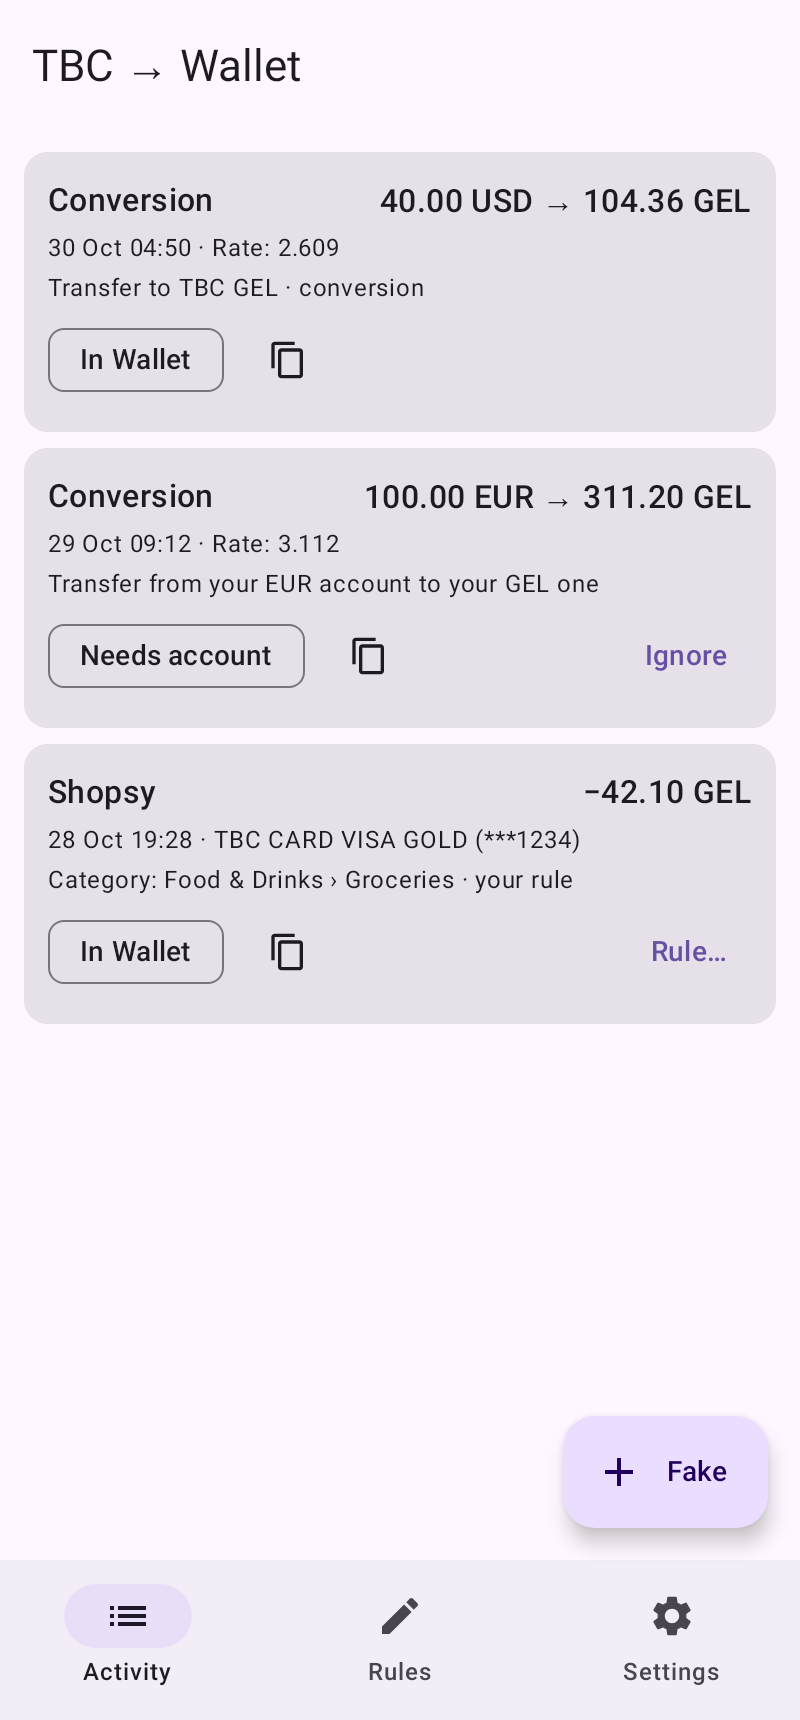
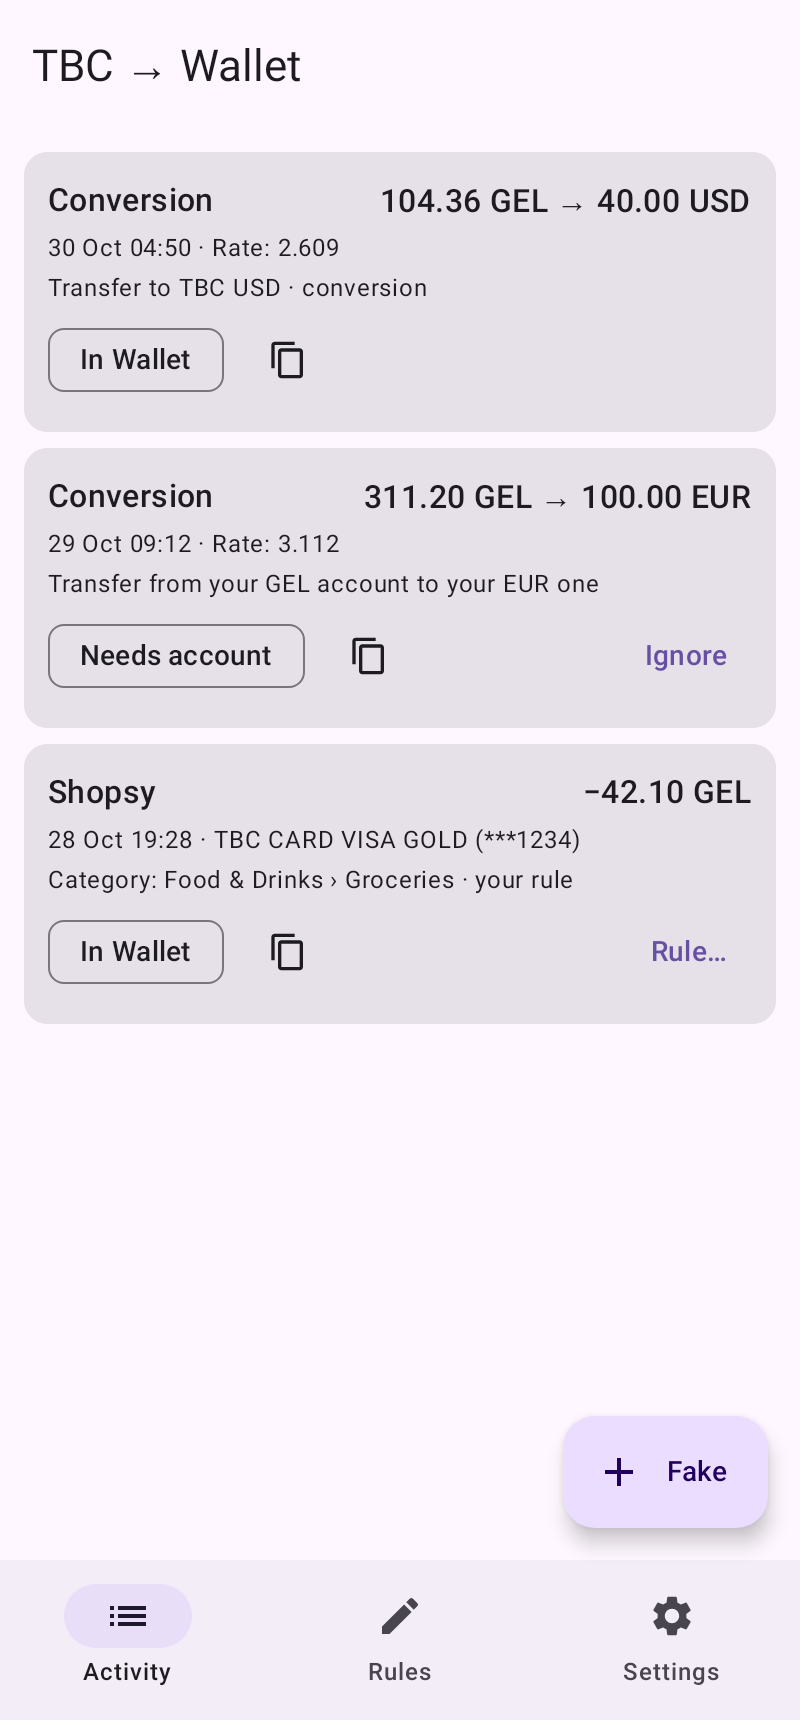
Read a conversion's first amount as what left, the second as what arrived
Confirmed with a real conversion: 104.36 GEL bought 40.00 USD.

Claude-Session: https://claude.ai/code/session_01J211UC7GY6QGmhgzeirtzj

diff --git a/app/src/test/java/su/iho/tbc2wallet/LogicTest.kt b/app/src/test/java/su/iho/tbc2wallet/LogicTest.kt
@@ -112,10 +112,10 @@ class ParserTest {
     @Test fun conversion() {
         val t = TbcNotificationParser.parse("Conversion:\n104.36 GEL\n40.00 USD\nRate: 2.609\n30/10/2026")!!
         assertEquals(TxKind.CONVERSION, t.kind)
-        assertEquals(BigDecimal("40.00"), t.amount)
-        assertEquals("USD", t.currency)
-        assertEquals(BigDecimal("104.36"), t.counterAmount)
-        assertEquals("GEL", t.counterCurrency)
+        assertEquals(BigDecimal("104.36"), t.amount)
+        assertEquals("GEL", t.currency)
+        assertEquals(BigDecimal("40.00"), t.counterAmount)
+        assertEquals("USD", t.counterCurrency)
         assertEquals("Rate: 2.609", t.accountLabel)
         assertNull(t.counterParty)
         assertEquals(LocalDate.of(2026, 10, 30), t.date)
@@ -124,8 +124,8 @@ class ParserTest {
 
     @Test fun conversionWithFirstAmountOnHeader() {
         val t = TbcNotificationParser.parse("Conversion: 1,043.60 GEL\n400.00 USD\nRate: 2.609\n30/10/2026")!!
-        assertEquals(BigDecimal("400.00"), t.amount)
-        assertEquals(BigDecimal("1043.60"), t.counterAmount)
+        assertEquals(BigDecimal("1043.60"), t.amount)
+        assertEquals(BigDecimal("400.00"), t.counterAmount)
     }
 
     @Test fun conversionNeedsTwoCurrencies() {
@@ -373,12 +373,12 @@ class WalletJsonTest {
 
     @Test fun conversionTransferCarriesCounterAmount() {
         val record = WalletApi.NewRecord(
-            accountId = "acc-usd", amount = WalletApi.Amount(-40.0, "USD"), recordDate = "2026-10-30T08:00:00Z",
-            transfer = WalletApi.Transfer("acc-gel", pairingMode = "new", counterAmount = WalletApi.Amount(104.36, "GEL")),
+            accountId = "acc-gel", amount = WalletApi.Amount(-104.36, "GEL"), recordDate = "2026-10-30T08:00:00Z",
+            transfer = WalletApi.Transfer("acc-usd", pairingMode = "new", counterAmount = WalletApi.Amount(40.0, "USD")),
         )
         val json = WalletApi.json.encodeToString(WalletApi.NewRecord.serializer(), record)
         assertTrue(json, json.contains(
-            """"transfer":{"accountId":"acc-gel","pairingMode":"new","counterAmount":{"value":104.36,"currencyCode":"GEL"}}"""))
+            """"transfer":{"accountId":"acc-usd","pairingMode":"new","counterAmount":{"value":40.0,"currencyCode":"USD"}}"""))
     }
 }
 

diff --git a/app/src/test/java/su/iho/tbc2wallet/screenshots/ConversionScreenshots.kt b/app/src/test/java/su/iho/tbc2wallet/screenshots/ConversionScreenshots.kt
@@ -44,17 +44,17 @@ class ConversionScreenshots {
         val dao = db.dao()
         val now = System.currentTimeMillis()
         dao.insertIfNew(TransactionEntity(
-            dedupKey = "c1", kind = "CONVERSION", amount = "40.00", currency = "USD", counterParty = null,
+            dedupKey = "c1", kind = "CONVERSION", amount = "104.36", currency = "GEL", counterParty = null,
             accountLabel = "Rate: 2.609", cardLast4 = null, recordDateUtc = "2026-10-30T04:50:00Z",
             rawText = "Conversion:\n104.36 GEL\n40.00 USD\nRate: 2.609\n30/10/2026", status = TxStatus.SENT,
-            walletRecordId = "r1", categorySource = SyncWorker.TRANSFER_SOURCE, categoryName = "TBC GEL",
-            receivedAt = now, counterAmount = "104.36", counterCurrency = "GEL",
+            walletRecordId = "r1", categorySource = SyncWorker.TRANSFER_SOURCE, categoryName = "TBC USD",
+            receivedAt = now, counterAmount = "40.00", counterCurrency = "USD",
         ))
         dao.insertIfNew(TransactionEntity(
-            dedupKey = "c2", kind = "CONVERSION", amount = "100.00", currency = "EUR", counterParty = null,
+            dedupKey = "c2", kind = "CONVERSION", amount = "311.20", currency = "GEL", counterParty = null,
             accountLabel = "Rate: 3.112", cardLast4 = null, recordDateUtc = "2026-10-29T09:12:00Z",
             rawText = "Conversion:\n311.20 GEL\n100.00 EUR\nRate: 3.112\n29/10/2026", status = TxStatus.NEEDS_ACCOUNT,
-            receivedAt = now - 1, counterAmount = "311.20", counterCurrency = "GEL",
+            receivedAt = now - 1, counterAmount = "100.00", counterCurrency = "EUR",
         ))
         dao.insertIfNew(TransactionEntity(
             dedupKey = "t1", kind = "EXPENSE", amount = "42.10", currency = "GEL", counterParty = "Shopsy",

diff --git a/app/src/main/java/su/iho/tbc2wallet/parse/TbcNotificationParser.kt b/app/src/main/java/su/iho/tbc2wallet/parse/TbcNotificationParser.kt
@@ -67,7 +67,7 @@ data class ParsedTransaction(
  *   Balance: 4588.05 GEL
  *
  * Currency conversion between your own accounts (no account line, date only).
- * The first amount is what arrived, the second what left:
+ * The first amount is what left, the second what arrived (here 104.36 GEL bought 40.00 USD):
  *   Conversion:
  *   104.36 GEL
  *   40.00 USD
@@ -180,7 +180,7 @@ object TbcNotificationParser {
         val amounts = (listOfNotNull(head.takeIf { it.groupValues[1].isNotEmpty() }) +
             lines.drop(1).mapNotNull { PURCHASE_AMOUNT.matchEntire(it) }).take(2)
         if (amounts.size < 2) return null
-        val (received, paid) = amounts
+        val (paid, received) = amounts
         if (received.groupValues[2] == paid.groupValues[2]) return null
         val date = lines.firstOrNull { DATE_LONG.matchEntire(it) != null } ?: return null
         val rate = lines.firstOrNull { RATE.matchEntire(it) != null }
